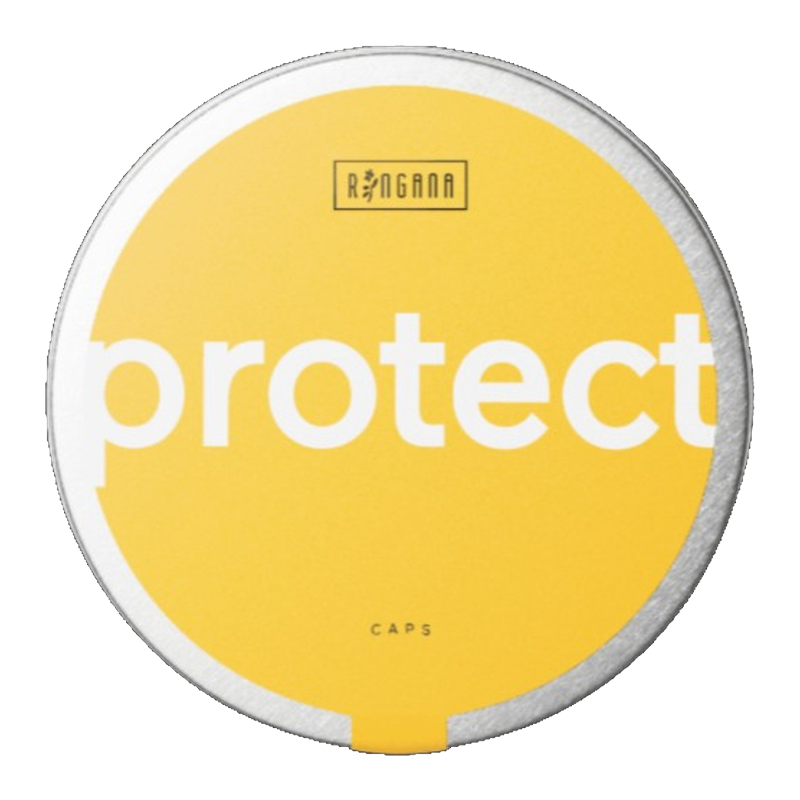
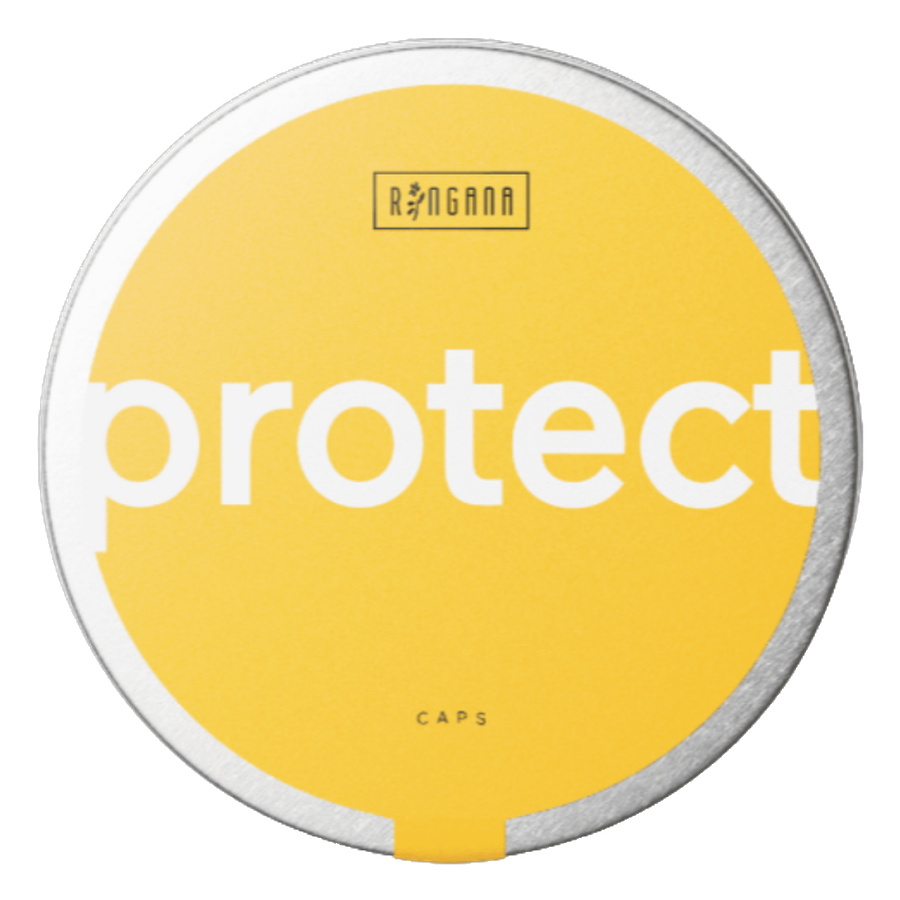
Kathryn products radar: crop/zoom tins, clean PNG outlines, restore ingredient chips

diff --git a/products.html b/products.html
@@ -420,8 +420,20 @@ section{padding:5.5rem 2rem;}
   max-width:200px;
   max-height:200px;
   object-fit:contain;
+  object-position:center;
   display:block;
-  filter:drop-shadow(0 10px 28px rgba(28,50,39,.12));
+  background:transparent;
+  border:0;
+  outline:0;
+  box-shadow:none;
+  /* soft shadow only — avoid dark edge artifacts looking like a stroke */
+  filter:drop-shadow(0 8px 18px rgba(28,50,39,.10));
+}
+.carousel-shot img[src*="caps-"],
+.carousel-shot img[src*="sport-"],
+.carousel-shot img[src*="drinks-"],
+.carousel-shot img[src*="fresh-"]{
+  /* tin/bottle PNGs already include their own lighting */
 }
 .carousel-copy{width:100%;max-width:54ch;margin:0 auto;}
 .carousel-copy .chip-row{justify-content:center;}
@@ -862,91 +874,138 @@ footer p{font-size:.8rem;opacity:.6;max-width:70ch;margin:0 auto .5rem;}
         <div class="carousel-track" id="carouselTrack">
           <div class="carousel-slide" data-slide="0">
             <div class="carousel-shot">
-              <img src="sport-protein.png" alt="RINGANA SPORT protein powder" loading="lazy" decoding="async" width="200" height="240">
+              <img src="sport-protein.png" alt="RINGANA SPORT protein powder" loading="lazy" decoding="async" width="200" height="200">
             </div>
             <div class="carousel-copy">
               <p class="radar-kicker">SPORT · Protein Powder</p>
-              <p><strong>SPORT Protein Powder</strong> (vegan &amp; gluten free) is at the top of my list — clean fuel for building and maintaining muscle and endurance as I show up stronger in midlife.</p>
+              <p><strong>SPORT protein</strong> (vegan &amp; gluten free) is at the top of my list — clean fuel for building and maintaining muscle and endurance so I can show up as the most powerful version of myself in midlife.</p>
+              <div class="chip-row">
+                <button type="button" class="chip ingredient-chip" data-label="Plant protein" data-ingredients="Vegan protein blend formulated without gluten — designed for everyday muscle maintenance and recovery." data-why="As a woman in midlife focused on strength training, I want protein that supports muscle without a compromise ingredient list.">Plant protein</button>
+                <button type="button" class="chip ingredient-chip" data-label="Vegan &amp; gluten free" data-ingredients="Made to fit clean, intentional nutrition standards — vegan and gluten free." data-why="Those aren't marketing checkboxes for me — they're part of how I holistically support my body after years of reading every label.">Vegan &amp; gluten free</button>
+                <button type="button" class="chip ingredient-chip" data-label="Strength &amp; recovery" data-ingredients="Protein contributes to the growth and maintenance of muscle mass." data-why="I'm training for endurance and power — for my children and for the life I'm building — and recovery has to keep up.">Strength &amp; recovery</button>
+              </div>
+              <p class="chip-hint">Tap + on any chip for ingredients and why they matter</p>
             </div>
           </div>
 
           <div class="carousel-slide" data-slide="1">
             <div class="carousel-shot">
-              <img src="sport-endurance.png" alt="RINGANA SPORT endurance &amp; performance" loading="lazy" decoding="async" width="200" height="240">
+              <img src="sport-endurance.png" alt="RINGANA SPORT endurance &amp; performance" loading="lazy" decoding="async" width="200" height="200">
             </div>
             <div class="carousel-copy">
               <p class="radar-kicker">SPORT · Endurance &amp; Performance</p>
-              <p><strong>SPORT endurance &amp; performance</strong> supports the training I'm prioritizing now — strength, stamina, and showing up as the most powerful version of myself for my children.</p>
+              <p><strong>SPORT endurance &amp; performance</strong> supports the training season I'm in now — stamina, output, and the kind of consistency that lets me keep showing up strong.</p>
+              <div class="chip-row">
+                <button type="button" class="chip ingredient-chip" data-label="Endurance support" data-ingredients="Plant-based performance formula designed to support stamina and physical output." data-why="Endurance isn't vanity for me — it's capacity. I want clean support that matches how hard I'm willing to train.">Endurance support</button>
+                <button type="button" class="chip ingredient-chip" data-label="Performance focus" data-ingredients="Targeted sport nutrition for people who train with intention, not trends." data-why="I'm proactive about midlife strength and hormonal shifts — products have to earn a place in that rhythm.">Performance focus</button>
+              </div>
+              <p class="chip-hint">Tap + on any chip for ingredients and why they matter</p>
             </div>
           </div>
 
           <div class="carousel-slide" data-slide="2">
             <div class="carousel-shot">
-              <img src="caps-protect.png" alt="RINGANA CAPS protect antioxidant support" loading="lazy" decoding="async" width="200" height="240">
+              <img src="caps-protect.png" alt="RINGANA CAPS protect antioxidant support" loading="lazy" decoding="async" width="200" height="200">
             </div>
             <div class="carousel-copy">
               <p class="radar-kicker">CAPS · Antioxidant</p>
-              <p><strong>Antioxidant CAPS</strong> — plant-powered cell protection I'm eager to test as part of a proactive daily wellness rhythm.</p>
+              <p><strong>CAPS protect</strong> is plant-powered antioxidant support I'm eager to test as part of a proactive daily wellness rhythm — cell protection that fits real life, not a complicated protocol.</p>
+              <div class="chip-row">
+                <button type="button" class="chip ingredient-chip" data-label="Antioxidant blend" data-ingredients="Plant extracts and micronutrients selected to support the body's defense against oxidative stress." data-why="Environmental toxins and daily stress add up. Antioxidant support is one of the clean, intentional disciplines I care about.">Antioxidant blend</button>
+                <button type="button" class="chip ingredient-chip" data-label="Daily cell protection" data-ingredients="Food-based plant actives in capsule form — vegan-friendly supplement design." data-why="I want supplements that feel like food-level integrity: targeted, transparent, and easy to stay consistent with.">Daily cell protection</button>
+              </div>
+              <p class="chip-hint">Tap + on any chip for ingredients and why they matter</p>
             </div>
           </div>
 
           <div class="carousel-slide" data-slide="3">
             <div class="carousel-shot">
-              <img src="drinks-isi.png" alt="RINGANA isi calm juice shots" loading="lazy" decoding="async" width="200" height="240">
+              <img src="drinks-isi.png" alt="RINGANA isi calm juice shots" loading="lazy" decoding="async" width="200" height="200">
             </div>
             <div class="carousel-copy">
               <p class="radar-kicker">DRINKS · Calm Mood Shots</p>
-              <p><strong>isi juice shots</strong> — and calm mood CAPS (moodoo) — for mood, mental clarity, and steady support through stress and hormonal shifts.</p>
+              <p><strong>isi</strong> is the calm juice shot I'm looking forward to — wind-down support with plant extracts and magnesium. Pair that with mood CAPS (moodoo) when I want a steadier daily rhythm through stress and hormonal shifts.</p>
+              <div class="chip-row">
+                <button type="button" class="chip ingredient-chip" data-label="isi calm shot" data-ingredients="Magnesium and calming plant extracts in a fresh functional shot format." data-why="Sometimes you need something you can feel in the moment — a clean shot that supports relaxation without a heavy formula.">isi calm shot</button>
+                <button type="button" class="chip ingredient-chip" data-label="moodoo CAPS" data-ingredients="Orange peel, schisandra, ashwagandha, green tea, cocoa, saffron, L-theanine, buckwheat germ, magnesium from seawater, biotin, folate, and B vitamins including B6 and B12." data-why="A multi-pathway botanical + nutrient blend for emotional balance and nervous-system support over time — especially useful in stressful or hormonal seasons.">moodoo CAPS</button>
+                <button type="button" class="chip ingredient-chip" data-label="Why calm matters" data-ingredients="Magnesium, biotin, and folate contribute to normal psychological function; B6 and B12 support normal nervous system function." data-why="Recovery taught me that calm isn't optional — it's part of how I protect my energy as a sole provider and mom.">Why calm matters</button>
+              </div>
+              <p class="chip-hint">Tap + on any chip for ingredients and why they matter</p>
             </div>
           </div>
 
           <div class="carousel-slide" data-slide="4">
             <div class="carousel-shot">
-              <img src="caps-beauty-hair.png" alt="RINGANA CAPS beauty &amp; hair" loading="lazy" decoding="async" width="200" height="240">
+              <img src="caps-beauty-hair.png" alt="RINGANA CAPS beauty &amp; hair" loading="lazy" decoding="async" width="200" height="200">
             </div>
             <div class="carousel-copy">
               <p class="radar-kicker">CAPS · Beauty &amp; Hair</p>
-              <p><strong>Beauty &amp; Hair CAPS</strong> — food-based plant extracts that support hair and nails from within. A clean beauty staple I'm looking forward to trying.</p>
+              <p><strong>beauty &amp; hair CAPS</strong> support hair and nails from within with food-based plant extracts — the kind of inside-out clean beauty approach I've trusted for more than a decade.</p>
+              <div class="chip-row">
+                <button type="button" class="chip ingredient-chip" data-label="Hair &amp; nail support" data-ingredients="L-carnosine, saw palmetto, and hyaluronic acid — formulated to strengthen hair and nails from within." data-why="When hair and nails are under stress, topical products only go so far. Internal support is part of a complete clean routine.">Hair &amp; nail support</button>
+                <button type="button" class="chip ingredient-chip" data-label="Food-based actives" data-ingredients="Plant extracts and nutrients in a vegan, gluten-free capsule format." data-why="I want beauty support that meets the same ingredient bar I hold for everything else I put in my body.">Food-based actives</button>
+              </div>
+              <p class="chip-hint">Tap + on any chip for ingredients and why they matter</p>
             </div>
           </div>
 
           <div class="carousel-slide" data-slide="5">
             <div class="carousel-shot">
-              <img src="caps-d-gest.png" alt="RINGANA CAPS d-gest gut health" loading="lazy" decoding="async" width="200" height="240">
+              <img src="caps-d-gest.png" alt="RINGANA CAPS d-gest gut health" loading="lazy" decoding="async" width="200" height="200">
             </div>
             <div class="carousel-copy">
               <p class="radar-kicker">CAPS · Gut Health</p>
-              <p><strong>d-gest CAPS</strong> — gut health support, because digestion and daily wellness are foundational.</p>
+              <p><strong>d-gest CAPS</strong> are on my list because gut health is foundational — digestion, daily comfort, and the kind of steady wellness you feel when your system is actually supported.</p>
+              <div class="chip-row">
+                <button type="button" class="chip ingredient-chip" data-label="Digestive support" data-ingredients="Plant-based digestive formula designed to support gut comfort and everyday digestion." data-why="If digestion is off, everything else feels harder. This is one of the first places I look when I want clean, practical support.">Digestive support</button>
+                <button type="button" class="chip ingredient-chip" data-label="Daily gut rhythm" data-ingredients="Targeted CAPS format — easy to take consistently as part of a morning or evening routine." data-why="Consistency beats intensity. I want gut support I can actually stick with while life stays full.">Daily gut rhythm</button>
+              </div>
+              <p class="chip-hint">Tap + on any chip for ingredients and why they matter</p>
             </div>
           </div>
 
           <div class="carousel-slide" data-slide="6">
             <div class="carousel-shot">
-              <img src="fresh-deodorant.webp" alt="RINGANA FRESH deodorant" loading="lazy" decoding="async" width="200" height="240">
+              <img src="fresh-deodorant.png" alt="RINGANA FRESH deodorant" loading="lazy" decoding="async" width="200" height="200">
             </div>
             <div class="carousel-copy">
               <p class="radar-kicker">FRESH · Deodorant</p>
-              <p><strong>FRESH deodorant</strong> — aluminum-salt-free odor protection with plant oils and natural moisturizers. An everyday essential on my early-access list.</p>
+              <p><strong>FRESH deodorant</strong> is a creamy water-in-oil emulsion that protects against odor without aluminium salts — while nourishing underarm skin with plant oils and natural moisturizers. An everyday essential on my early-access list.</p>
+              <div class="chip-row">
+                <button type="button" class="chip ingredient-chip" data-label="Odour protection" data-ingredients="Zinc oxide, sodium bicarbonate, rice bran water (Oryza sativa), and frankincense (Boswellia serrata)." data-why="Works with your skin's natural function instead of blocking sweat with aluminium — odour control plus care, which matters on skin you treat every single day.">Odour protection</button>
+                <button type="button" class="chip ingredient-chip" data-label="Nourishing care" data-ingredients="Shea butter, oat kernel extract, sesame seed oil, and a blend of nourishing plant oils and botanical extracts including sage and tea tree oils." data-why="Underarm skin deserves the same ingredient scrutiny as anything else you use daily — especially if you shave or have sensitivity there.">Nourishing care</button>
+              </div>
+              <p class="chip-hint">Tap + on any chip for ingredients and why they matter</p>
             </div>
           </div>
 
           <div class="carousel-slide" data-slide="7">
             <div class="carousel-shot">
-              <img src="fresh-hair-duo.webp" alt="RINGANA FRESH hair care duo" loading="lazy" decoding="async" width="200" height="240">
+              <img src="fresh-hair-duo.png" alt="RINGANA FRESH volume shampoo and hair treatment" loading="lazy" decoding="async" width="200" height="200">
             </div>
             <div class="carousel-copy">
               <p class="radar-kicker">FRESH · Hair Care</p>
-              <p><strong>FRESH hair care</strong> — volume shampoo and hair treatment I'm excited to test for body, shine, and manageable lengths.</p>
+              <p><strong>FRESH volume shampoo and FRESH hair treatment</strong> are the duo I'm excited to test — microbiome-friendly cleansing paired with a leave-in treatment for body, shine, and manageable lengths.</p>
+              <div class="chip-row">
+                <button type="button" class="chip ingredient-chip" data-label="Volume shampoo" data-ingredients="Ginseng, nettle, fermented rice water, and a mushroom extract complex (reishi, shiitake, chaga, and snow fungus)." data-why="Volume without heavy silicones that coat and wash away — the mushroom complex delivers moisture while ginseng and nettle support lift and scalp balance.">Volume shampoo</button>
+                <button type="button" class="chip ingredient-chip" data-label="Hair treatment" data-ingredients="Fermented rice water, mushroom extracts, and plant proteins in a versatile leave-in balm." data-why="Works on wet or dry hair as a leave-in or rinse-off mask — structural support and moisture that stays, especially on fine or brittle ends.">Hair treatment</button>
+              </div>
+              <p class="chip-hint">Tap + on any chip for ingredients and why they matter</p>
             </div>
           </div>
 
           <div class="carousel-slide" data-slide="8">
             <div class="carousel-shot">
-              <img src="fresh-tooth-oil.png" alt="RINGANA FRESH tooth oil" loading="lazy" decoding="async" width="200" height="240">
+              <img src="fresh-tooth-oil.png" alt="RINGANA FRESH tooth oil" loading="lazy" decoding="async" width="200" height="200">
             </div>
             <div class="carousel-copy">
               <p class="radar-kicker">FRESH · Tooth Oil</p>
-              <p><strong>FRESH tooth oil</strong> — fresh oral care without the usual compromise list.</p>
+              <p><strong>FRESH tooth oil</strong> is fresh oral care without the usual compromise list — another everyday product where ingredient integrity actually matters to me.</p>
+              <div class="chip-row">
+                <button type="button" class="chip ingredient-chip" data-label="Fresh oral care" data-ingredients="Plant-oil based tooth oil formulated for daily oral care without conventional compromise additives." data-why="Oral care products sit in your mouth every day. That alone makes clean formulation non-negotiable for me.">Fresh oral care</button>
+                <button type="button" class="chip ingredient-chip" data-label="Made fresh" data-ingredients="Part of Ringana's FRESH line — small-batch production with short expiration dates." data-why="A short date is proof nothing artificial is holding the formula together on a warehouse shelf.">Made fresh</button>
+              </div>
+              <p class="chip-hint">Tap + on any chip for ingredients and why they matter</p>
             </div>
           </div>
 </div>
